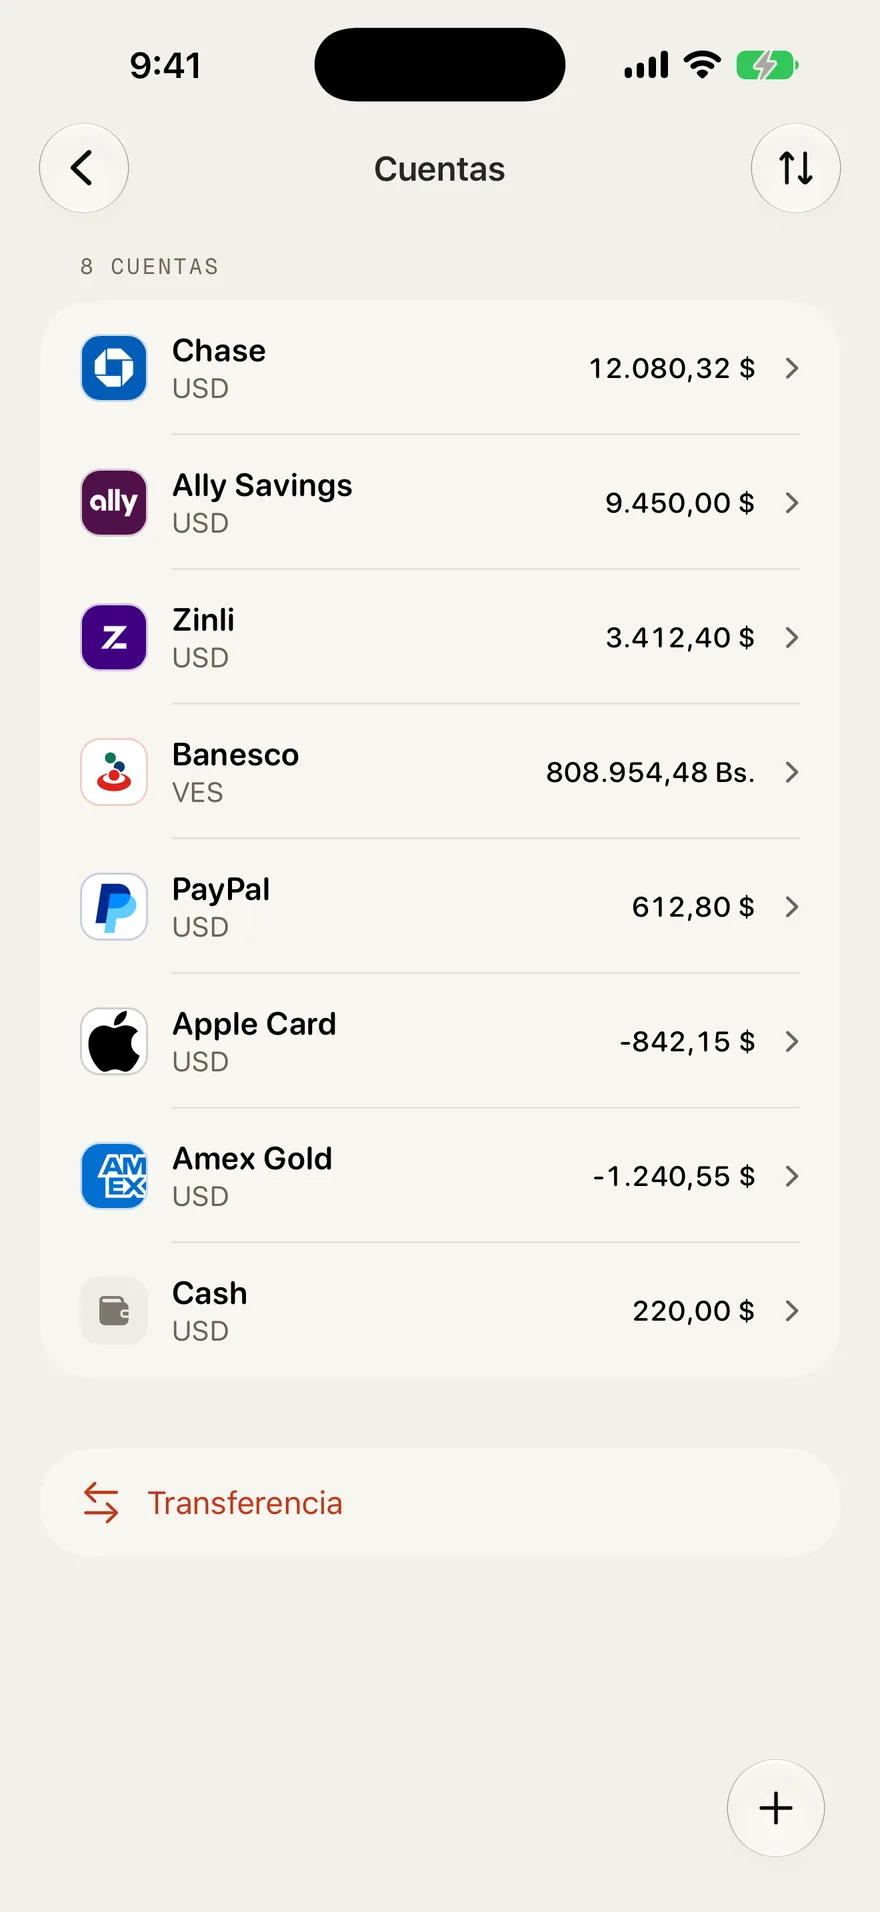
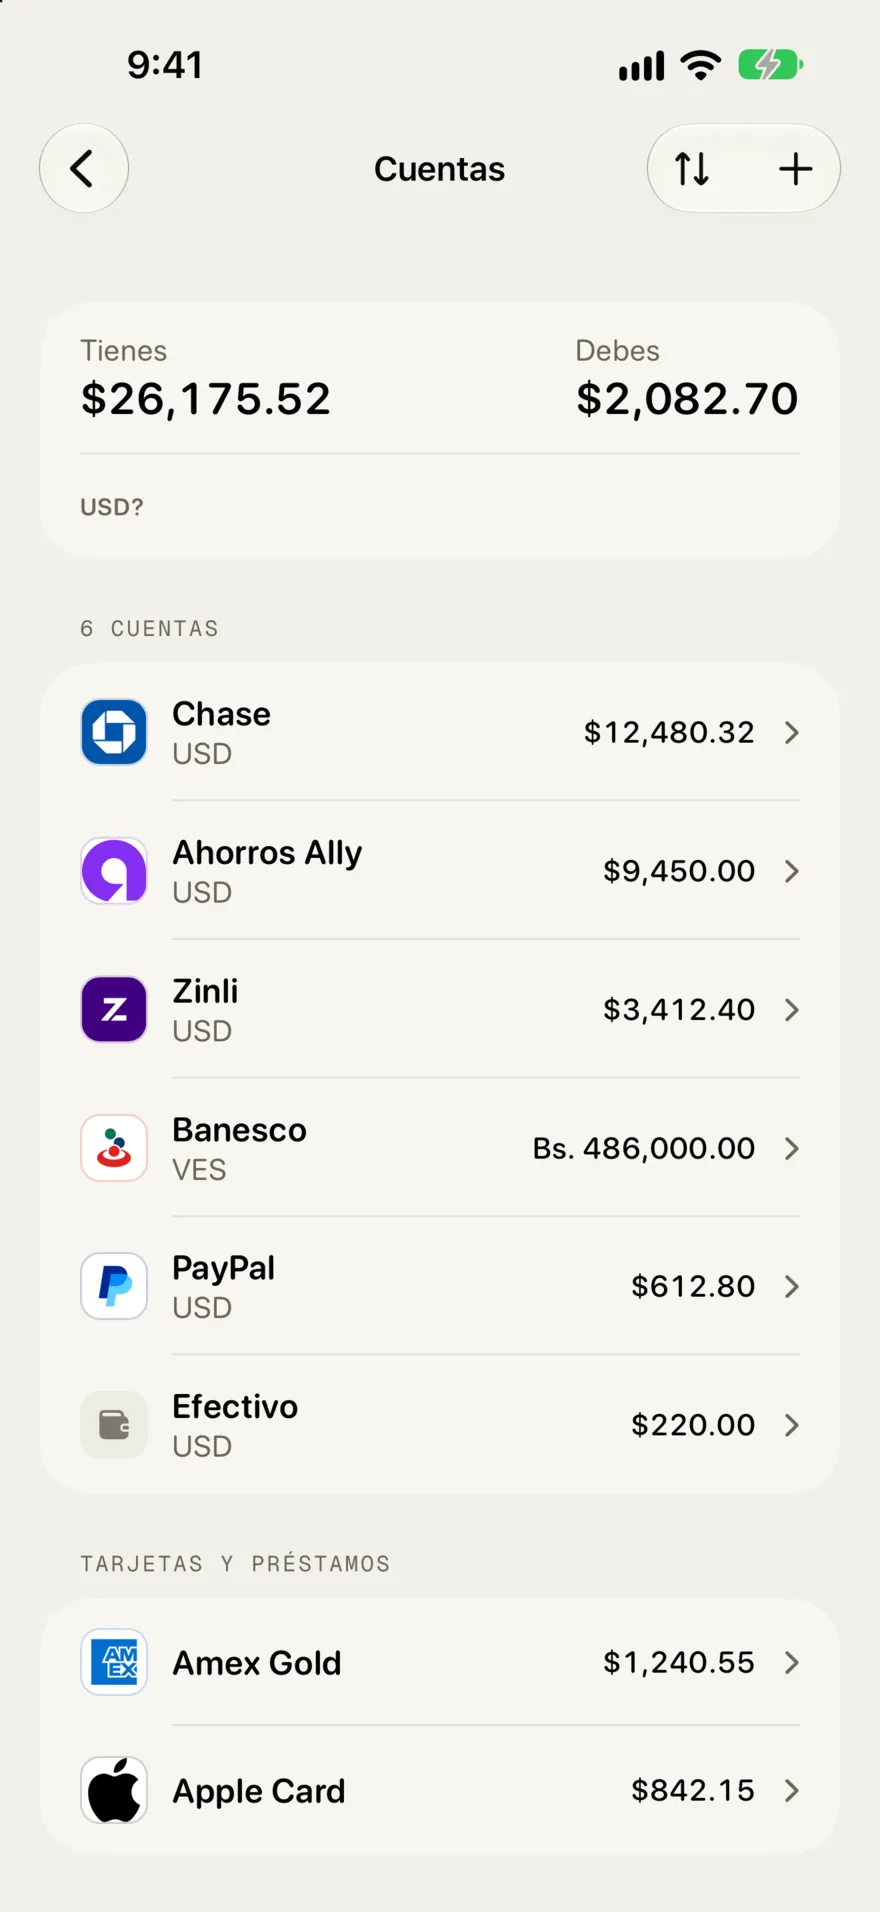
feat(web): Spanish dark-mode app screenshots, recaptured from the current app
/es showed the English dark captures in dark mode, under Spanish alt
text. Screens 04, 05, 06 and 10 are recaptured in Spanish, light and
dark, from the current app on a seeded simulator with the clock pinned
to the deck's days (Sep 12, and Sep 13 for Budgets, so the numbers
match: $319 short, 18 days left, 6-12 Sep).

screenSources now serves /screens/es/NN-dark.webp on /es. The Spanish
Accounts alt text describes the current Accounts screen (what you have
and owe, six accounts and two cards).

diff --git a/apps/web/src/content/shared.ts b/apps/web/src/content/shared.ts
@@ -19,5 +19,5 @@ export const BUDGETS_SCREEN_ALT = t({
 
 export const ACCOUNTS_SCREEN_ALT = t({
     en: "Outlayr Accounts screen listing eight accounts, including Banesco in bolívares and an Apple Card with a negative balance, above a Transfer button.",
-    es: "Pantalla de cuentas de Outlayr con ocho cuentas, entre ellas Banesco en bolívares y una Apple Card con saldo negativo, arriba de un botón para transferir.",
+    es: "Pantalla de cuentas de Outlayr: tienes $26,175.52 y debes $2,082.70, con seis cuentas, entre ellas Banesco en bolívares, y dos tarjetas, Amex Gold y Apple Card.",
 });

diff --git a/apps/web/src/components/home/media.tsx b/apps/web/src/components/home/media.tsx
@@ -58,7 +58,8 @@ const SPANISH_SCREENS = new Set(["04", "05", "06", "10"]);
 
 export function screenSources(name: string, locale: string) {
     const spanish = locale === "es" && SPANISH_SCREENS.has(name);
-    return { dark: `/screens/${name}-dark.webp`, src: spanish ? `/screens/es/${name}.webp` : `/screens/${name}.webp` };
+    const base = spanish ? `/screens/es/${name}` : `/screens/${name}`;
+    return { dark: `${base}-dark.webp`, src: `${base}.webp` };
 }
 
 export function Screen({
